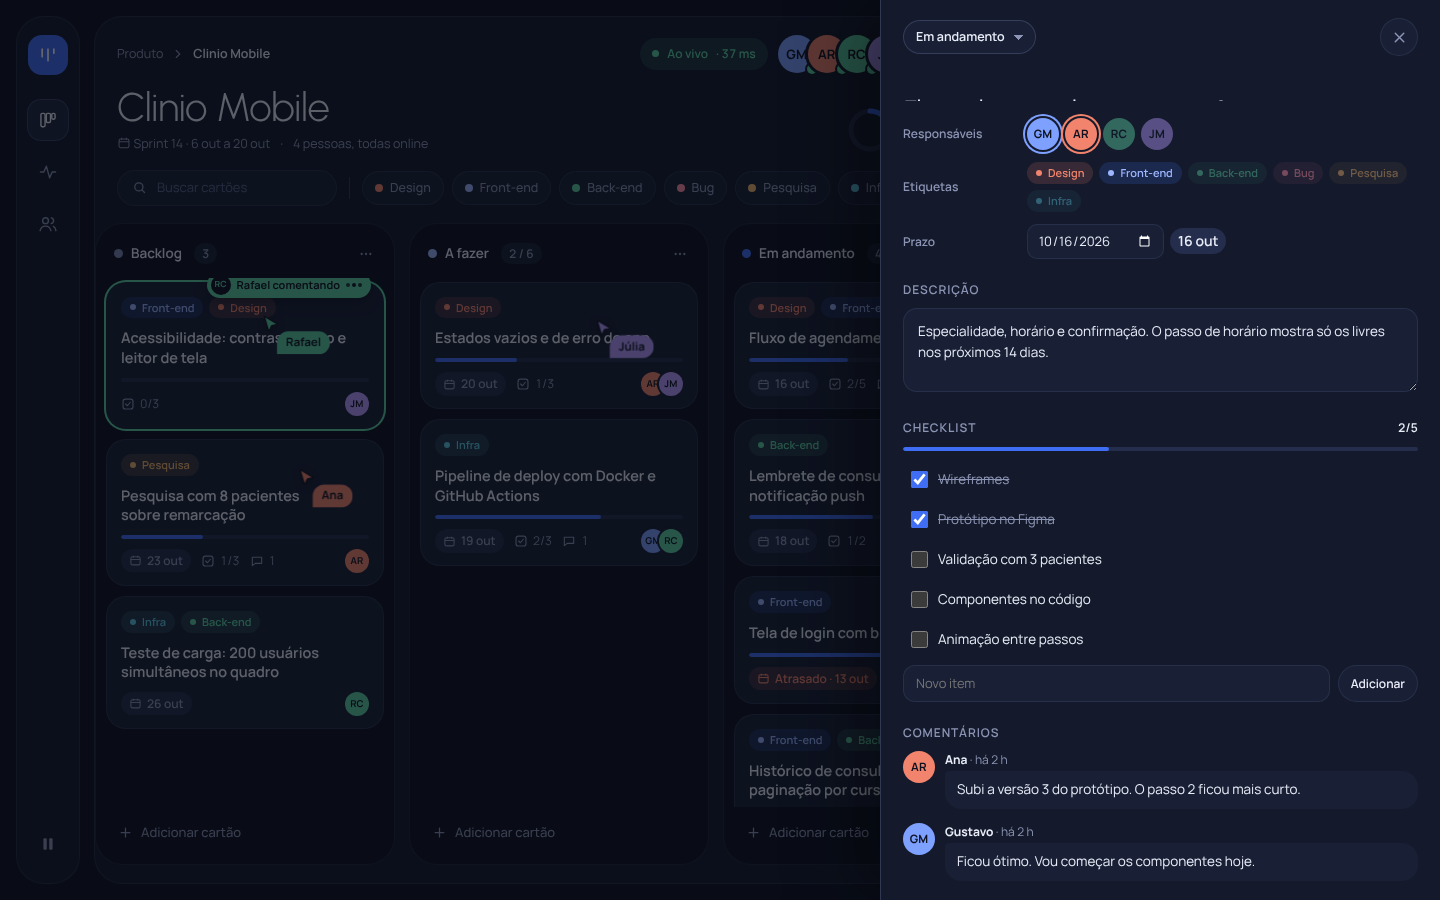
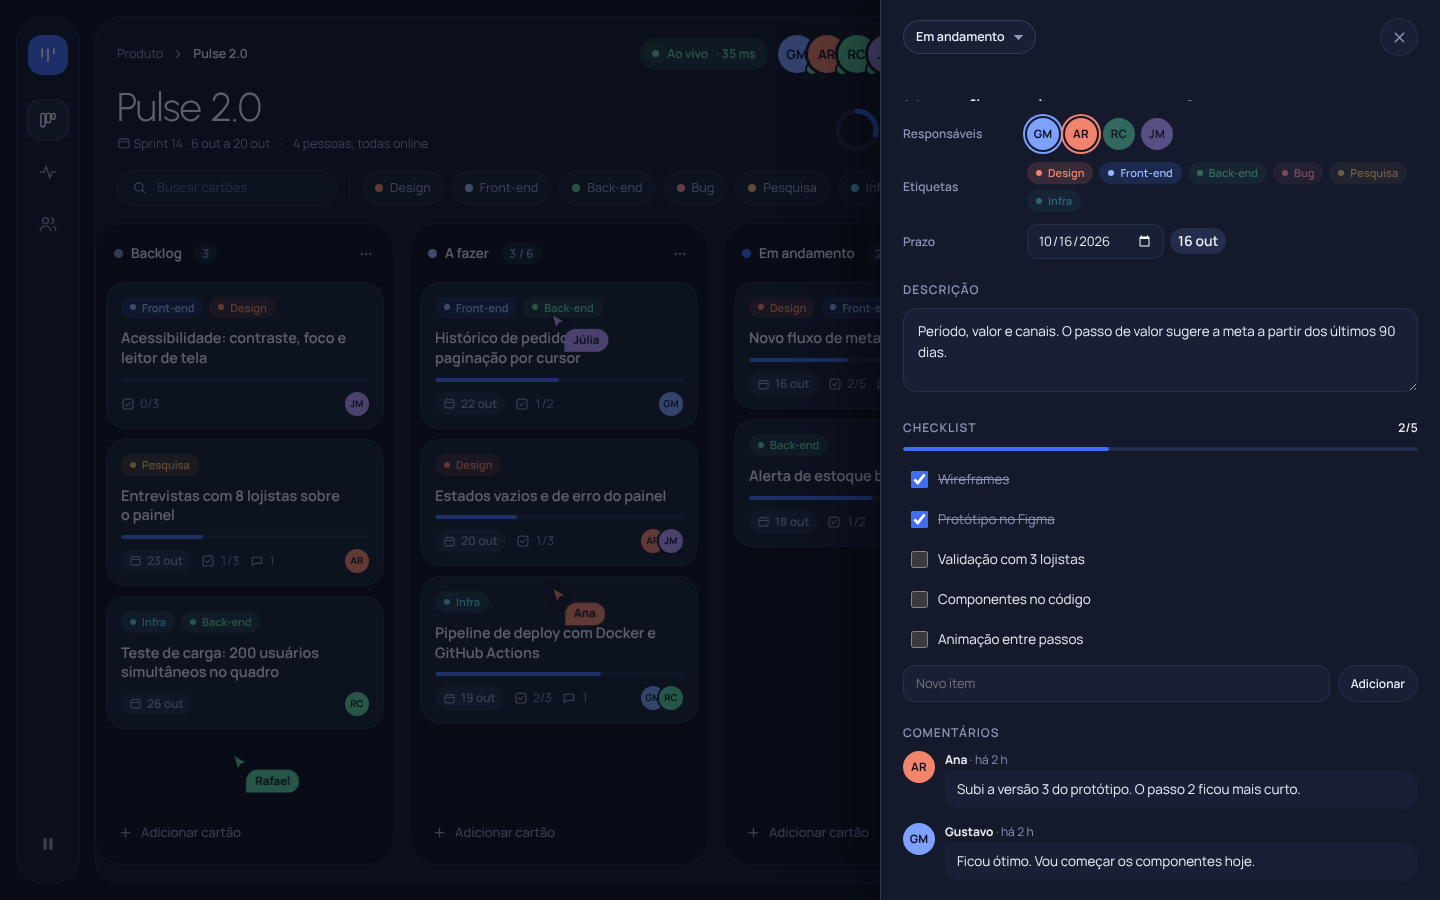
Flowboard: quadro de exemplo passa a ser o Pulse 2.0
Claude-Session: https://claude.ai/code/session_013vZvUAvemi2WzNdJSiFqdE

diff --git a/public/flowboard/index.html b/public/flowboard/index.html
@@ -385,7 +385,7 @@ body.dragging,body.dragging *{cursor:grabbing!important}
 
   <main class="main">
     <div class="topbar pad">
-      <div class="crumbs"><span class="hide-sm">Produto</span><svg class="hide-sm" viewBox="0 0 24 24" fill="none" stroke="currentColor" stroke-width="2" stroke-linecap="round"><path d="m9 6 6 6-6 6"/></svg><b>Clinio Mobile</b></div>
+      <div class="crumbs"><span class="hide-sm">Produto</span><svg class="hide-sm" viewBox="0 0 24 24" fill="none" stroke="currentColor" stroke-width="2" stroke-linecap="round"><path d="m9 6 6 6-6 6"/></svg><b>Pulse 2.0</b></div>
       <div class="top-right">
         <span class="live" id="live" title="Sincronização em tempo real"><span class="pulse"></span><span class="txt" id="liveTxt">Ao vivo</span><span class="num" id="latency">· 38 ms</span></span>
         <div class="presence" id="presence"></div>
@@ -397,7 +397,7 @@ body.dragging,body.dragging *{cursor:grabbing!important}
 
     <div class="headrow pad">
       <div>
-        <h1>Clinio Mobile</h1>
+        <h1>Pulse 2.0</h1>
         <div class="meta"><span><svg viewBox="0 0 24 24" fill="none" stroke="currentColor" stroke-width="1.8"><rect x="3.5" y="5" width="17" height="15" rx="3"/><path d="M3.5 10h17M8 3v4M16 3v4"/></svg> <span id="sprintTxt"></span></span><span>·</span><span id="memberCount"></span></div>
       </div>
       <div class="progress">
@@ -525,19 +525,19 @@ const state = {
   ],
   cards:[
     {id:'c1', col:'backlog', title:'Acessibilidade: contraste, foco e leitor de tela', labels:['front','design'], due:null, who:['jm'], desc:'Auditar as telas principais com o leitor de tela do iOS e do Android. Meta: nível AA do WCAG 2.2.', check:[{t:'Contraste dos textos secundários',d:false},{t:'Ordem de foco no agendamento',d:false},{t:'Rótulos dos ícones',d:false}], comments:[]},
-    {id:'c2', col:'backlog', title:'Pesquisa com 8 pacientes sobre remarcação', labels:['pesquisa'], due:dayOff(9), who:['ar'], desc:'Entender por que 31% das remarcações acontecem por telefone e não pelo app.', check:[{t:'Roteiro de entrevista',d:true},{t:'Recrutar participantes',d:false},{t:'Síntese em mapa de afinidade',d:false}], comments:[{who:'ar', text:'Já tenho 5 pacientes confirmados para quinta.', at:M(190)}]},
+    {id:'c2', col:'backlog', title:'Entrevistas com 8 lojistas sobre o painel', labels:['pesquisa'], due:dayOff(9), who:['ar'], desc:'Entender por que 31% dos lojistas exportam CSV em vez de usar os gráficos.', check:[{t:'Roteiro de entrevista',d:true},{t:'Recrutar participantes',d:false},{t:'Síntese em mapa de afinidade',d:false}], comments:[{who:'ar', text:'Já tenho 5 lojistas confirmados para quinta.', at:M(190)}]},
     {id:'c3', col:'backlog', title:'Teste de carga: 200 usuários simultâneos no quadro', labels:['infra','back'], due:dayOff(12), who:['rc'], desc:'Cenário com k6: 200 conexões Socket.IO, 20 movimentos por segundo, medir latência p95 do broadcast.', check:[], comments:[]},
-    {id:'c4', col:'todo', title:'Histórico de consultas com paginação por cursor', labels:['front','back'], due:dayOff(8), who:['gm'], desc:'Lista infinita com cursor no back-end (created_at + id) para não pular registros.', check:[{t:'Endpoint GET /consultas?cursor=',d:false},{t:'Lista virtualizada',d:false}], comments:[]},
-    {id:'c5', col:'todo', title:'Estados vazios e de erro do app', labels:['design'], due:dayOff(6), who:['ar','jm'], desc:'', check:[{t:'Sem consultas',d:true},{t:'Sem internet',d:false},{t:'Erro no pagamento',d:false}], comments:[]},
+    {id:'c4', col:'todo', title:'Histórico de pedidos com paginação por cursor', labels:['front','back'], due:dayOff(8), who:['gm'], desc:'Lista infinita com cursor no back-end (created_at + id) para não pular registros.', check:[{t:'Endpoint GET /pedidos?cursor=',d:false},{t:'Lista virtualizada',d:false}], comments:[]},
+    {id:'c5', col:'todo', title:'Estados vazios e de erro do painel', labels:['design'], due:dayOff(6), who:['ar','jm'], desc:'', check:[{t:'Sem pedidos',d:true},{t:'Sem internet',d:false},{t:'Erro na exportação',d:false}], comments:[]},
     {id:'c6', col:'todo', title:'Pipeline de deploy com Docker e GitHub Actions', labels:['infra'], due:dayOff(5), who:['gm','rc'], desc:'Imagem multi-stage, migrações no start e deploy só com testes verdes.', check:[{t:'Dockerfile multi-stage',d:true},{t:'Workflow de testes',d:true},{t:'Deploy automático',d:false}], comments:[{who:'rc', text:'Coloquei cache das dependências no workflow, caiu de 4 para 1,5 min.', at:M(75)}]},
-    {id:'c7', col:'doing', title:'Fluxo de agendamento em 3 passos', labels:['design','front'], due:dayOff(2), who:['ar','gm'], desc:'Especialidade, horário e confirmação. O passo de horário mostra só os livres nos próximos 14 dias.', check:[{t:'Wireframes',d:true},{t:'Protótipo no Figma',d:true},{t:'Validação com 3 pacientes',d:false},{t:'Componentes no código',d:false},{t:'Animação entre passos',d:false}], comments:[{who:'ar', text:'Subi a versão 3 do protótipo. O passo 2 ficou mais curto.', at:M(140)},{who:'gm', text:'Ficou ótimo. Vou começar os componentes hoje.', at:M(120)}]},
-    {id:'c8', col:'doing', title:'Lembrete de consulta por notificação push', labels:['back'], due:dayOff(4), who:['rc'], desc:'Envio 24 h e 2 h antes. Fila com reprocessamento quando o provedor falhar.', check:[{t:'Fila de envios',d:true},{t:'Template das mensagens',d:false}], comments:[]},
-    {id:'c9', col:'doing', title:'Tela de login com biometria', labels:['front'], due:dayOff(-1), who:['jm'], desc:'Face ID e impressão digital, com senha como alternativa.', check:[{t:'Fluxo feliz',d:true},{t:'Fallback para senha',d:true},{t:'Bloqueio após 5 tentativas',d:false}], comments:[{who:'jm', text:'Falta só o bloqueio. Termino amanhã cedo.', at:M(400)}]},
-    {id:'c10', col:'review', title:'Corrigir fuso horário nos horários livres', labels:['bug','back'], due:dayOff(0), who:['rc'], desc:'Clínicas do Acre viam horários com 2 h de diferença. Agora tudo é salvo em UTC e convertido no cliente.', check:[{t:'Teste com fuso America/Rio_Branco',d:true}], comments:[{who:'rc', text:'@Gustavo pode revisar o PR? Mudei a coluna para timestamptz.', at:M(35)}]},
-    {id:'c11', col:'review', title:'Endpoint de confirmação com idempotência', labels:['back'], due:dayOff(3), who:['gm'], desc:'Chave de idempotência no cabeçalho para o botão Confirmar não criar dois agendamentos.', check:[{t:'Tabela idempotency_keys',d:true},{t:'Testes de concorrência',d:true}], comments:[]},
-    {id:'c12', col:'done', title:'Modelo de dados das remarcações', labels:['back'], due:dayOff(-3), who:['rc'], desc:'', check:[{t:'Migração',d:true},{t:'Seeds',d:true}], comments:[]},
+    {id:'c7', col:'doing', title:'Novo fluxo de metas em 3 passos', labels:['design','front'], due:dayOff(2), who:['ar','gm'], desc:'Período, valor e canais. O passo de valor sugere a meta a partir dos últimos 90 dias.', check:[{t:'Wireframes',d:true},{t:'Protótipo no Figma',d:true},{t:'Validação com 3 lojistas',d:false},{t:'Componentes no código',d:false},{t:'Animação entre passos',d:false}], comments:[{who:'ar', text:'Subi a versão 3 do protótipo. O passo 2 ficou mais curto.', at:M(140)},{who:'gm', text:'Ficou ótimo. Vou começar os componentes hoje.', at:M(120)}]},
+    {id:'c8', col:'doing', title:'Alerta de estoque baixo por e-mail', labels:['back'], due:dayOff(4), who:['rc'], desc:'Envio diário às 8 h com os produtos abaixo do mínimo. Fila com reprocessamento quando o provedor falhar.', check:[{t:'Fila de envios',d:true},{t:'Template das mensagens',d:false}], comments:[]},
+    {id:'c9', col:'doing', title:'Login com Google e verificação em duas etapas', labels:['front'], due:dayOff(-1), who:['jm'], desc:'Entrada com Google ou e-mail, e código do app autenticador para contas de administrador.', check:[{t:'Fluxo feliz',d:true},{t:'Código do app autenticador',d:true},{t:'Bloqueio após 5 tentativas',d:false}], comments:[{who:'jm', text:'Falta só o bloqueio. Termino amanhã cedo.', at:M(400)}]},
+    {id:'c10', col:'review', title:'Corrigir fuso horário no mapa de calor de vendas', labels:['bug','back'], due:dayOff(0), who:['rc'], desc:'Lojas do Acre viam os picos de venda com 2 h de diferença. Agora tudo é salvo em UTC e convertido no cliente.', check:[{t:'Teste com fuso America/Rio_Branco',d:true}], comments:[{who:'rc', text:'@Gustavo pode revisar o PR? Mudei a coluna para timestamptz.', at:M(35)}]},
+    {id:'c11', col:'review', title:'Endpoint de pedidos com idempotência', labels:['back'], due:dayOff(3), who:['gm'], desc:'Chave de idempotência no cabeçalho para o botão Finalizar não criar dois pedidos.', check:[{t:'Tabela idempotency_keys',d:true},{t:'Testes de concorrência',d:true}], comments:[]},
+    {id:'c12', col:'done', title:'Modelo de dados das coortes de retenção', labels:['back'], due:dayOff(-3), who:['rc'], desc:'', check:[{t:'Migração',d:true},{t:'Seeds',d:true}], comments:[]},
     {id:'c13', col:'done', title:'Ícones e ilustrações do onboarding', labels:['design'], due:dayOff(-2), who:['ar'], desc:'', check:[], comments:[{who:'jm', text:'Já estão no app, ficaram leves (12 kB no total).', at:M(1500)}]},
-    {id:'c14', col:'done', title:'Componente de cartão do profissional', labels:['design','front'], due:dayOff(-1), who:['jm'], desc:'', check:[{t:'Variante compacta',d:true}], comments:[]}
+    {id:'c14', col:'done', title:'Componente de cartão de KPI', labels:['design','front'], due:dayOff(-1), who:['jm'], desc:'', check:[{t:'Variante compacta',d:true}], comments:[]}
   ],
   activity:[
     {who:'rc', kind:'comment', card:'c10', text:'@Gustavo pode revisar o PR? Mudei a coluna para timestamptz.', at:M(35), mine:true},
@@ -1295,14 +1295,14 @@ const waitIdle = async () => { while (busy() || state.paused) await sleep(250); 
 function visibleCards(filter){ return state.cards.filter(c => !holds.has(c.id) && matches(c) && cardEl(c.id) && (!filter || filter(c))); }
 
 const COMMENTS = {
-  ar:['Atualizei o protótipo no Figma, dá uma olhada quando puder.','@Gustavo o espaçamento do passo 2 ficou bom no Android?','Testei com 3 pacientes, todos acharam o botão Confirmar.','Deixei as variações de cor no arquivo de componentes.'],
-  rc:['Subi o PR, os testes de integração passaram.','@Gustavo consegue revisar ainda hoje?','Coloquei um índice em (clinic_id, starts_at), a consulta caiu para 12 ms.','A fila reprocessa 3 vezes antes de marcar como falha.'],
+  ar:['Atualizei o protótipo no Figma, dá uma olhada quando puder.','@Gustavo o espaçamento do passo 2 ficou bom no Android?','Testei com 3 lojistas, todos acharam o botão Salvar meta.','Deixei as variações de cor no arquivo de componentes.'],
+  rc:['Subi o PR, os testes de integração passaram.','@Gustavo consegue revisar ainda hoje?','Coloquei um índice em (store_id, created_at), a consulta caiu para 12 ms.','A fila reprocessa 3 vezes antes de marcar como falha.'],
   jm:['Ficou pronto no Storybook.','@Gustavo posso pegar a parte de animação?','Ajustei o foco do teclado, agora segue a ordem visual.','Testei no iPhone SE e nada quebrou.']
 };
 const NEW_CARDS = {
-  ar:[['Revisar textos do onboarding',['design']],['Mapa da jornada de remarcação',['pesquisa','design']]],
+  ar:[['Revisar textos do onboarding',['design']],['Mapa da jornada de reposição de estoque',['pesquisa','design']]],
   rc:[['Rate limit no endpoint de login',['back','infra']],['Logs estruturados com request id',['infra']]],
-  jm:[['Skeleton loading na lista de consultas',['front']],['Bug: teclado cobre o campo de CPF',['bug','front']]]
+  jm:[['Skeleton loading na lista de pedidos',['front']],['Bug: teclado cobre o campo de busca no celular',['bug','front']]]
 };
 const COL_STATUS = id => `vendo ${colOf(id)?.name || 'o quadro'}`;
 
